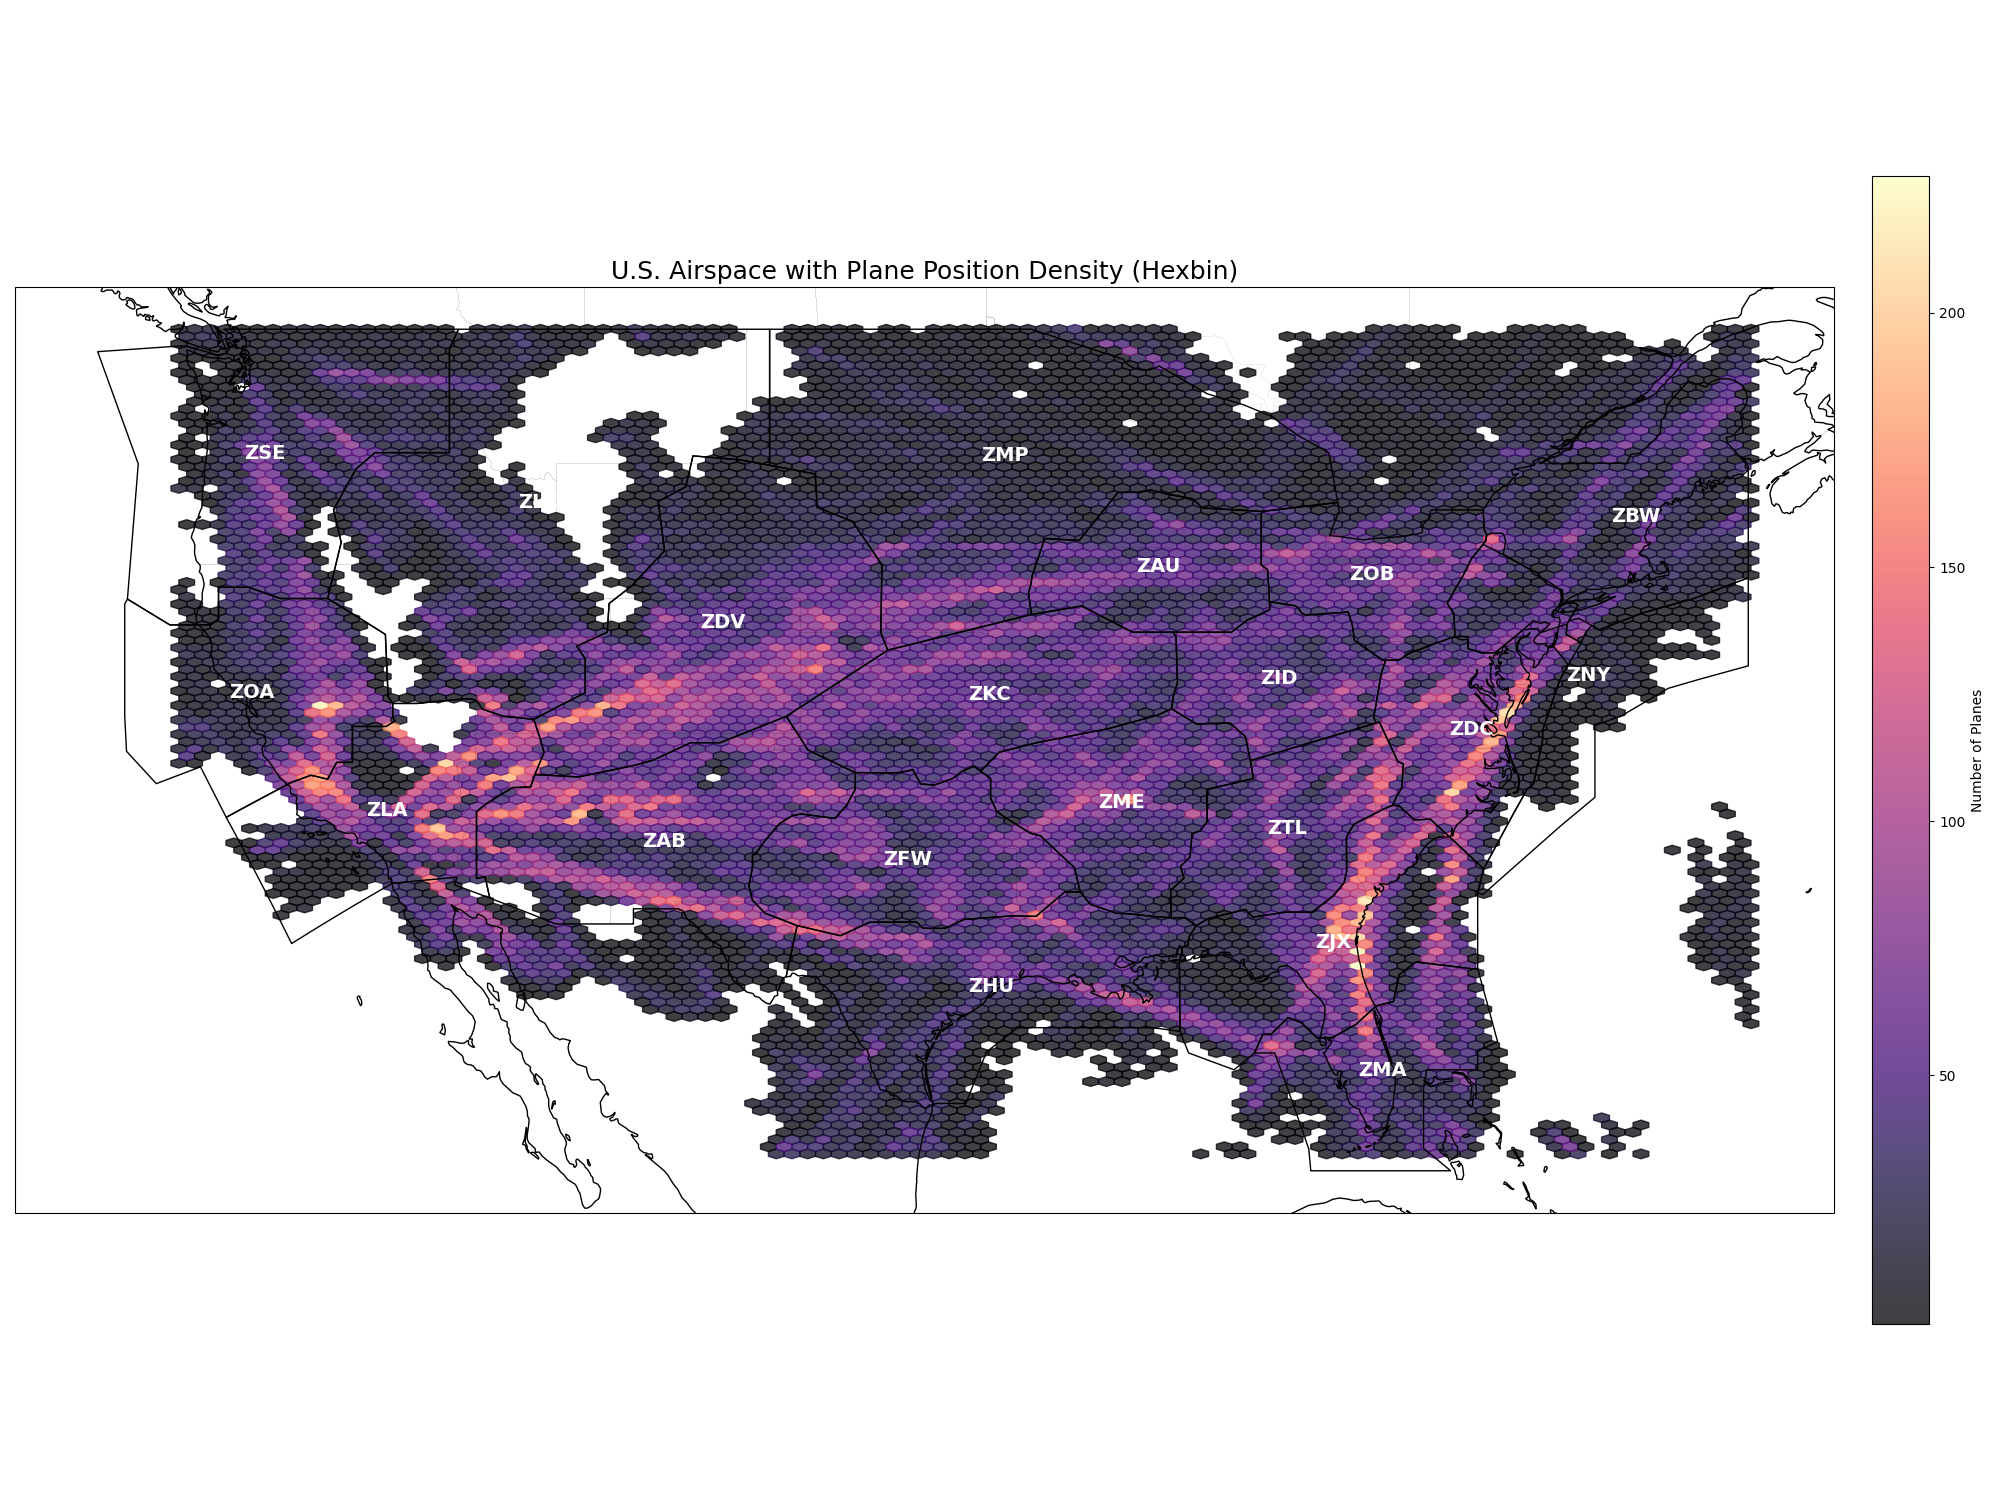
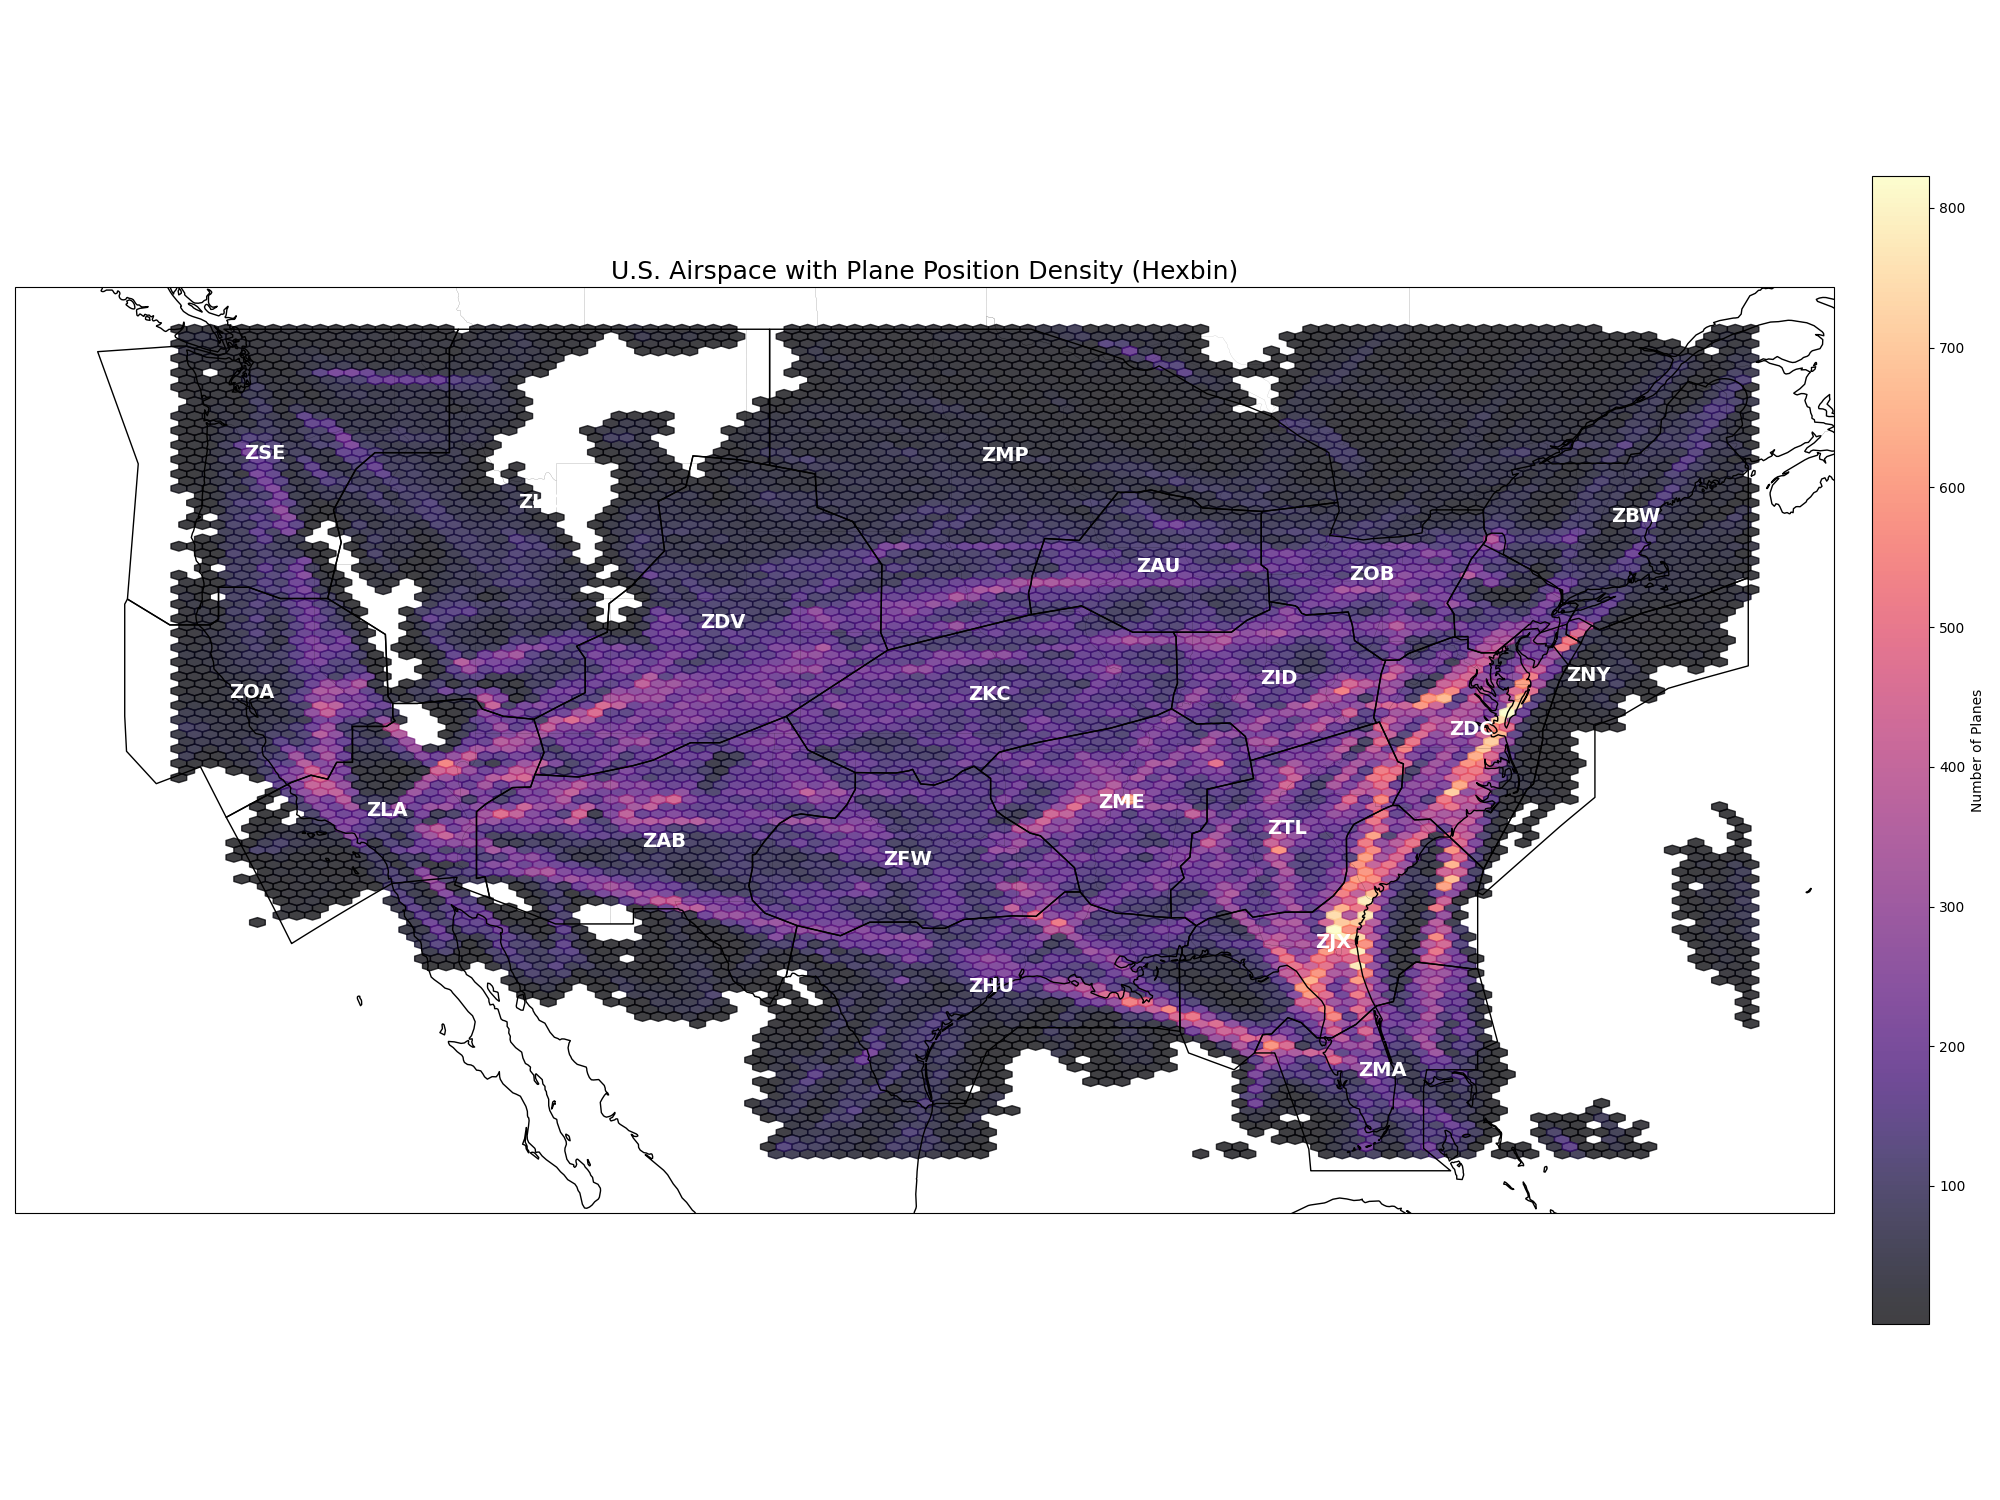
Recreated visuals with updated data

diff --git a/app.py b/app.py
@@ -21,7 +21,7 @@ def load_data():
 
     # Perform static filtering (Exclude 'Outside National Airspace')
         # Doing this inside the function means we cache the CLEANED result.
-    opensky_df = opensky_df.filter(pl.col("IDENT") != "Outside National Airspace")
+    opensky_df = opensky_df.filter((pl.col("IDENT") != "Outside National Airspace") & pl.col("on_ground") == False)
     airspace_gdf = airspace_gdf[airspace_gdf["IDENT"] != "Outside National Airspace"]
     transitions_df = transitions_df.filter(
         (pl.col("IDENT_prev") != "Outside National Airspace") & 
@@ -69,7 +69,7 @@ opensky_df_in_region = opensky_df.filter(
 
 # Get most recent time and filter to last 30 minutes
 most_recent_time = opensky_df_in_region.select(pl.col("time_position").max()).item()
-cutoff_time = most_recent_time - 1800  # 30 minutes prior
+cutoff_time = most_recent_time - 300  # 5 minutes prior
 
 # Filter planes to last 30 minutes
 recent_planes = opensky_df_in_region.filter(
@@ -149,7 +149,7 @@ with col2:
     st.dataframe(exits_df, use_container_width=True, height=200, hide_index=True)
 
 # Bottom row: Full-width map
-st.subheader("Most Recent Aircraft Locations (Last 30 Minutes)")
+st.subheader("Most Recent Aircraft Locations (Last 5 Minutes)")
 
 # Display legend above the plot
 col_legend = st.columns([0.2, 0.6, 0.2])
@@ -216,7 +216,7 @@ for idx, row in airspaces_to_plot.iterrows():
     )
 
 # Plot plane locations colored by transition status with directional arrows
-arrow_length = 0.175 # Length of arrow in degrees
+arrow_length = 0.1 # Length of arrow in degrees
 
 # Loop through planes and plot
 for _, plane in recent_planes_pd.iterrows():
@@ -224,13 +224,18 @@ for _, plane in recent_planes_pd.iterrows():
     color = plane['color']
     true_track = plane['true_track']
     
-    # Plot the point
+    # Plot the point (lower alpha for Neither planes)
+    if color == "#CCCCCC":
+        alpha = 0.25
+    else:
+        alpha = 1.0
+
     ax.scatter(
         lon,
         lat,
         color=color,
-        s=50,
-        alpha=1,
+        s=25,
+        alpha=alpha,
         transform=ccrs.PlateCarree(),
         edgecolors='#FFFFFF',
         linewidth=0.5,
@@ -248,11 +253,11 @@ for _, plane in recent_planes_pd.iterrows():
         
         ax.arrow(
             lon, lat, dx, dy,
-            head_width=0.25,
-            head_length=0.14,
+            head_width=0.125,
+            head_length=0.1,
             fc=color,
             ec=color,
-            alpha=0.8,
+            alpha=alpha,
             transform=ccrs.PlateCarree(),
             zorder=6,
             linewidth=1
